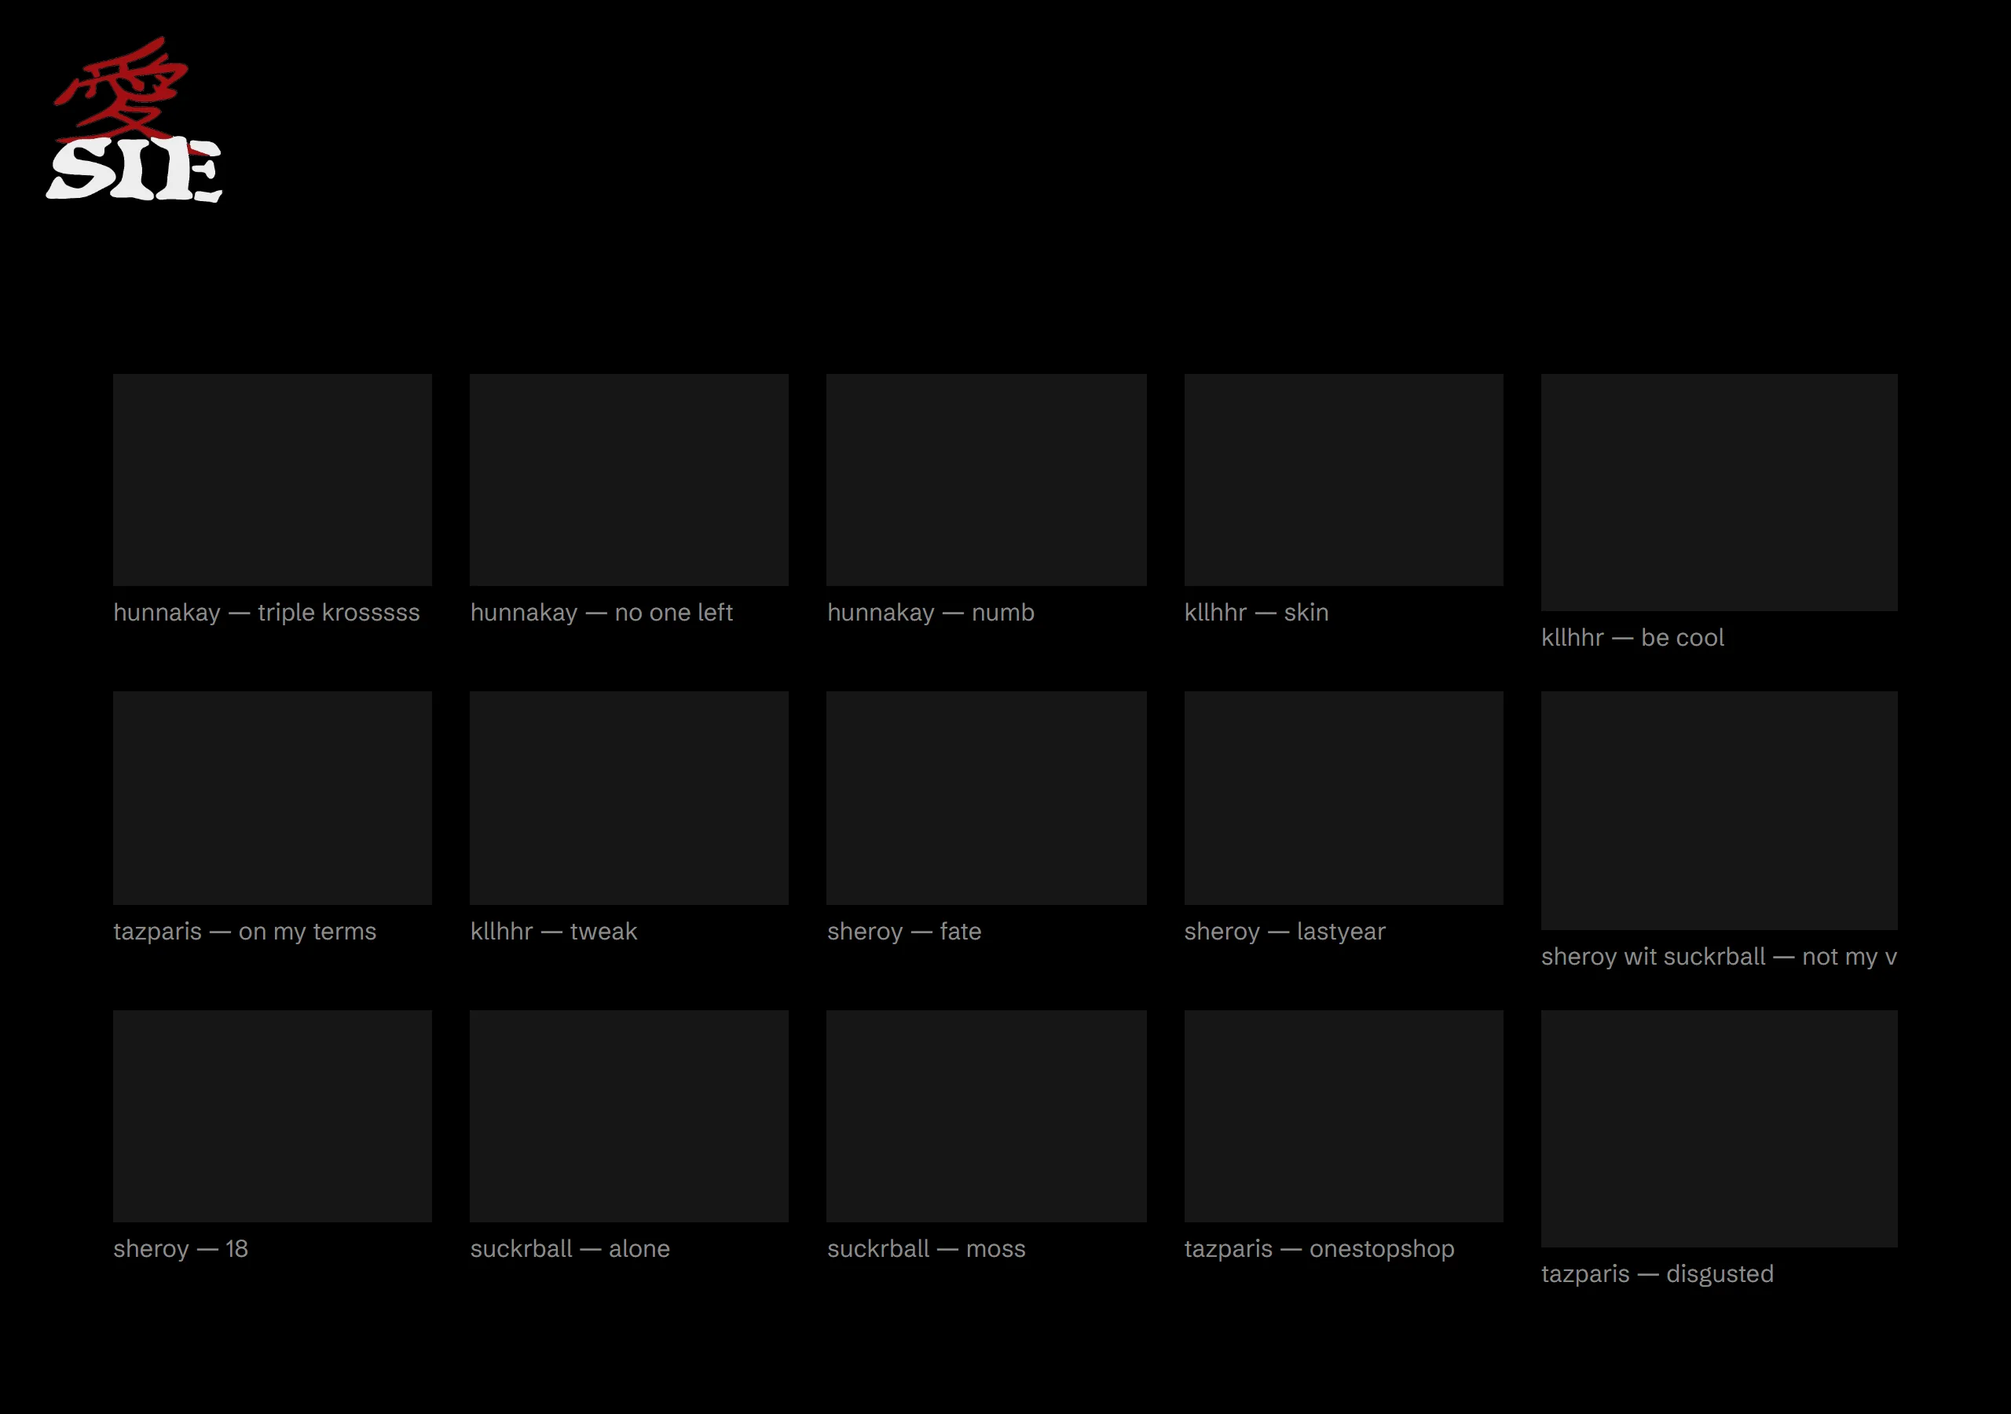
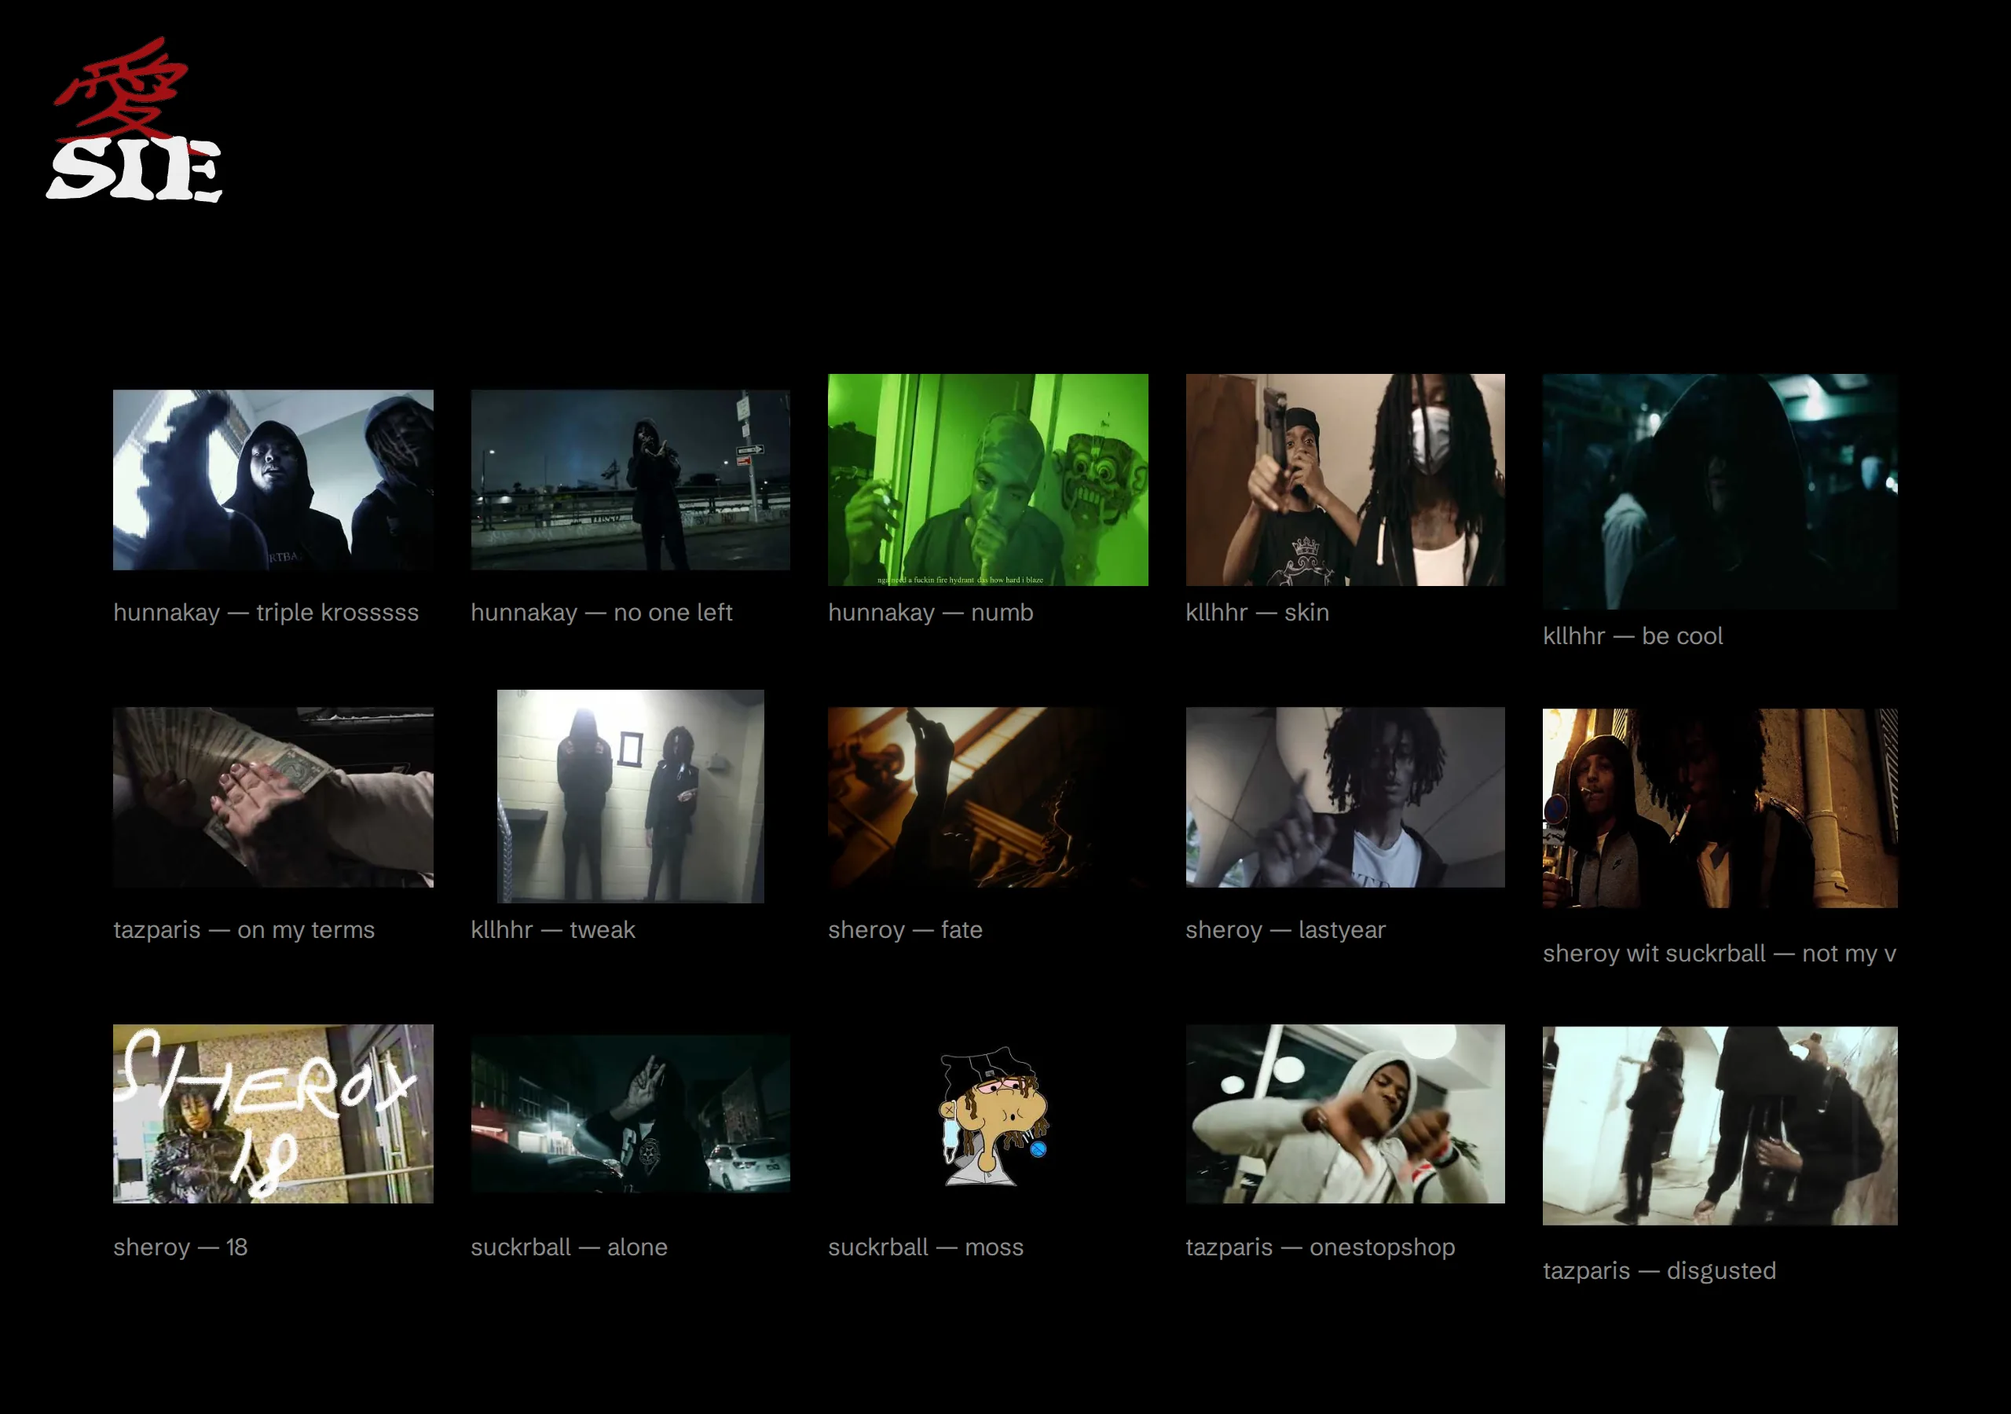
chore(feed): map the two new uploads; 17 videos
k3JJfNnI7ss (@hunnakay) shipped as a raw filename, 'lostmysanity148_unmixed_
prod_aghast_kickn_myrlu.wav' — mapped to hunnakay / lost my sanity. Confirm the
title if that reading is wrong.
Izu3k-agHEM (@suckrballll) cleaned correctly to 'i feel alone'.

diff --git a/site/index.html b/site/index.html
@@ -65,6 +65,12 @@
 
   <section class="sie">
     <div class="vids" id="vids">
+      <a class="vid" data-yt="k3JJfNnI7ss"
+         href="https://www.youtube.com/watch?v=k3JJfNnI7ss"
+         target="_blank" rel="noopener" aria-label="hunnakay — lost my sanity">
+        <span class="vid-thumb"><img src="https://i.ytimg.com/vi/k3JJfNnI7ss/hqdefault.jpg" alt="" loading="lazy" width="480" height="360"></span>
+        <span class="vid-label">hunnakay — lost my sanity</span>
+      </a>
       <a class="vid" data-yt="W6n73KxSkn0"
          href="https://www.youtube.com/watch?v=W6n73KxSkn0"
          target="_blank" rel="noopener" aria-label="hunnakay — triple krosssss">
@@ -131,6 +137,12 @@
         <span class="vid-thumb"><img src="https://i.ytimg.com/vi/E5zMqyOE61o/hqdefault.jpg" alt="" loading="lazy" width="480" height="360"></span>
         <span class="vid-label">sheroy — 18</span>
       </a>
+      <a class="vid" data-yt="Izu3k-agHEM"
+         href="https://www.youtube.com/watch?v=Izu3k-agHEM"
+         target="_blank" rel="noopener" aria-label="suckrball — i feel alone">
+        <span class="vid-thumb"><img src="https://i.ytimg.com/vi/Izu3k-agHEM/hqdefault.jpg" alt="" loading="lazy" width="480" height="360"></span>
+        <span class="vid-label">suckrball — i feel alone</span>
+      </a>
       <a class="vid" data-yt="QNqd8_XWc58"
          href="https://www.youtube.com/watch?v=QNqd8_XWc58"
          target="_blank" rel="noopener" aria-label="suckrball — alone">
@@ -160,7 +172,7 @@
 </main>
 
 <script src="vendor/myth-index/myth-index.js"></script>
-<script type="application/json" id="catalogue">[{"href":"/","title":"shop","thumb":"assets/cd-front.webp"},{"href":"/videos#W6n73KxSkn0","title":"hunnakay — triple krosssss","thumb":"assets/yt/W6n73KxSkn0.jpg"},{"href":"/videos#hY4yIF5t618","title":"hunnakay — no one left","thumb":"assets/yt/hY4yIF5t618.jpg"},{"href":"/videos#OIUexrJQ89A","title":"hunnakay — numb","thumb":"assets/yt/OIUexrJQ89A.jpg"},{"href":"/videos#cm8-lW25-e4","title":"kllhhr — skin","thumb":"assets/yt/cm8-lW25-e4.jpg"},{"href":"/videos#2L9ZwUIzAX8","title":"kllhhr — be cool","thumb":"assets/yt/2L9ZwUIzAX8.jpg"},{"href":"/videos#3KxkXT0U6PM","title":"tazparis — on my terms","thumb":"assets/yt/3KxkXT0U6PM.jpg"},{"href":"/videos#q0cq_Ny0Hkg","title":"kllhhr — tweak","thumb":"assets/yt/q0cq_Ny0Hkg.jpg"},{"href":"/videos#Vf-I12GW8Pk","title":"sheroy — fate","thumb":"assets/yt/Vf-I12GW8Pk.jpg"},{"href":"/videos#_swh-ZVvAro","title":"sheroy — lastyear","thumb":"assets/yt/_swh-ZVvAro.jpg"},{"href":"/videos#P1fFSZUrW3k","title":"sheroy wit suckrball — not my v","thumb":"assets/yt/P1fFSZUrW3k.jpg"},{"href":"/videos#E5zMqyOE61o","title":"sheroy — 18","thumb":"assets/yt/E5zMqyOE61o.jpg"},{"href":"/videos#QNqd8_XWc58","title":"suckrball — alone","thumb":"assets/yt/QNqd8_XWc58.jpg"},{"href":"/videos#wETb3ybNNKg","title":"suckrball — moss","thumb":"assets/yt/wETb3ybNNKg.jpg"},{"href":"/videos#gTsLN7wq9DY","title":"tazparis — onestopshop","thumb":"assets/yt/gTsLN7wq9DY.jpg"},{"href":"/videos#S_OO6kivZ8Y","title":"tazparis — disgusted","thumb":"assets/yt/S_OO6kivZ8Y.jpg"}]</script>
+<script type="application/json" id="catalogue">[{"href":"/","title":"shop","thumb":"assets/cd-front.webp"},{"href":"/videos#k3JJfNnI7ss","thumb":"assets/yt/k3JJfNnI7ss.jpg","title":"hunnakay — lost my sanity"},{"href":"/videos#W6n73KxSkn0","thumb":"assets/yt/W6n73KxSkn0.jpg","title":"hunnakay — triple krosssss"},{"href":"/videos#hY4yIF5t618","thumb":"assets/yt/hY4yIF5t618.jpg","title":"hunnakay — no one left"},{"href":"/videos#OIUexrJQ89A","thumb":"assets/yt/OIUexrJQ89A.jpg","title":"hunnakay — numb"},{"href":"/videos#cm8-lW25-e4","thumb":"assets/yt/cm8-lW25-e4.jpg","title":"kllhhr — skin"},{"href":"/videos#2L9ZwUIzAX8","thumb":"assets/yt/2L9ZwUIzAX8.jpg","title":"kllhhr — be cool"},{"href":"/videos#3KxkXT0U6PM","thumb":"assets/yt/3KxkXT0U6PM.jpg","title":"tazparis — on my terms"},{"href":"/videos#q0cq_Ny0Hkg","thumb":"assets/yt/q0cq_Ny0Hkg.jpg","title":"kllhhr — tweak"},{"href":"/videos#Vf-I12GW8Pk","thumb":"assets/yt/Vf-I12GW8Pk.jpg","title":"sheroy — fate"},{"href":"/videos#_swh-ZVvAro","thumb":"assets/yt/_swh-ZVvAro.jpg","title":"sheroy — lastyear"},{"href":"/videos#P1fFSZUrW3k","thumb":"assets/yt/P1fFSZUrW3k.jpg","title":"sheroy wit suckrball — not my v"},{"href":"/videos#E5zMqyOE61o","thumb":"assets/yt/E5zMqyOE61o.jpg","title":"sheroy — 18"},{"href":"/videos#Izu3k-agHEM","thumb":"assets/yt/Izu3k-agHEM.jpg","title":"suckrball — i feel alone"},{"href":"/videos#QNqd8_XWc58","thumb":"assets/yt/QNqd8_XWc58.jpg","title":"suckrball — alone"},{"href":"/videos#wETb3ybNNKg","thumb":"assets/yt/wETb3ybNNKg.jpg","title":"suckrball — moss"},{"href":"/videos#gTsLN7wq9DY","thumb":"assets/yt/gTsLN7wq9DY.jpg","title":"tazparis — onestopshop"},{"href":"/videos#S_OO6kivZ8Y","thumb":"assets/yt/S_OO6kivZ8Y.jpg","title":"tazparis — disgusted"}]</script>
 <script src="js/sie.v13.js"></script>
 </body>
 </html>

diff --git a/site/build/webflow-paste/2-site-footer.html b/site/build/webflow-paste/2-site-footer.html
@@ -1,10 +1,10 @@
 <!-- Site settings / Custom code / Footer code (before </body>) -->
 <div id="intro" aria-hidden="true">
-  <video muted playsinline preload="auto" width="720" height="870">
-    <source src="https://assets.sie.market/sie-intro.v4.mp4" type="video/mp4">
-  </video>
-  <img src="https://cdn.prod.website-files.com/6ab09c2043ba16c77bec74be/6ab3d8b049b603070109fb47_sie-logo.png" alt="" width="682" height="638" hidden>
+<video muted playsinline preload="auto" width="720" height="870">
+<source src="https://assets.sie.market/sie-intro.v4.mp4" type="video/mp4">
+</video>
+<img src="https://cdn.prod.website-files.com/6ab09c2043ba16c77bec74be/6ab3d8b049b603070109fb47_sie-logo.png" alt="" width="682" height="638" hidden>
 </div>
-<script type="application/json" id="catalogue">[{"href":"/","title":"shop","thumb":"assets/cd-front.webp"},{"href":"/videos#W6n73KxSkn0","title":"hunnakay — triple krosssss","thumb":"assets/yt/W6n73KxSkn0.jpg"},{"href":"/videos#hY4yIF5t618","title":"hunnakay — no one left","thumb":"assets/yt/hY4yIF5t618.jpg"},{"href":"/videos#OIUexrJQ89A","title":"hunnakay — numb","thumb":"assets/yt/OIUexrJQ89A.jpg"},{"href":"/videos#cm8-lW25-e4","title":"kllhhr — skin","thumb":"assets/yt/cm8-lW25-e4.jpg"},{"href":"/videos#2L9ZwUIzAX8","title":"kllhhr — be cool","thumb":"assets/yt/2L9ZwUIzAX8.jpg"},{"href":"/videos#3KxkXT0U6PM","title":"tazparis — on my terms","thumb":"assets/yt/3KxkXT0U6PM.jpg"},{"href":"/videos#q0cq_Ny0Hkg","title":"kllhhr — tweak","thumb":"assets/yt/q0cq_Ny0Hkg.jpg"},{"href":"/videos#Vf-I12GW8Pk","title":"sheroy — fate","thumb":"assets/yt/Vf-I12GW8Pk.jpg"},{"href":"/videos#_swh-ZVvAro","title":"sheroy — lastyear","thumb":"assets/yt/_swh-ZVvAro.jpg"},{"href":"/videos#P1fFSZUrW3k","title":"sheroy wit suckrball — not my v","thumb":"assets/yt/P1fFSZUrW3k.jpg"},{"href":"/videos#E5zMqyOE61o","title":"sheroy — 18","thumb":"assets/yt/E5zMqyOE61o.jpg"},{"href":"/videos#QNqd8_XWc58","title":"suckrball — alone","thumb":"assets/yt/QNqd8_XWc58.jpg"},{"href":"/videos#wETb3ybNNKg","title":"suckrball — moss","thumb":"assets/yt/wETb3ybNNKg.jpg"},{"href":"/videos#gTsLN7wq9DY","title":"tazparis — onestopshop","thumb":"assets/yt/gTsLN7wq9DY.jpg"},{"href":"/videos#S_OO6kivZ8Y","title":"tazparis — disgusted","thumb":"assets/yt/S_OO6kivZ8Y.jpg"}]</script>
+<script type="application/json" id="catalogue">[{"href":"/","title":"shop","thumb":"assets/cd-front.webp"},{"href":"/videos#k3JJfNnI7ss","thumb":"assets/yt/k3JJfNnI7ss.jpg","title":"hunnakay — lost my sanity"},{"href":"/videos#W6n73KxSkn0","thumb":"assets/yt/W6n73KxSkn0.jpg","title":"hunnakay — triple krosssss"},{"href":"/videos#hY4yIF5t618","thumb":"assets/yt/hY4yIF5t618.jpg","title":"hunnakay — no one left"},{"href":"/videos#OIUexrJQ89A","thumb":"assets/yt/OIUexrJQ89A.jpg","title":"hunnakay — numb"},{"href":"/videos#cm8-lW25-e4","thumb":"assets/yt/cm8-lW25-e4.jpg","title":"kllhhr — skin"},{"href":"/videos#2L9ZwUIzAX8","thumb":"assets/yt/2L9ZwUIzAX8.jpg","title":"kllhhr — be cool"},{"href":"/videos#3KxkXT0U6PM","thumb":"assets/yt/3KxkXT0U6PM.jpg","title":"tazparis — on my terms"},{"href":"/videos#q0cq_Ny0Hkg","thumb":"assets/yt/q0cq_Ny0Hkg.jpg","title":"kllhhr — tweak"},{"href":"/videos#Vf-I12GW8Pk","thumb":"assets/yt/Vf-I12GW8Pk.jpg","title":"sheroy — fate"},{"href":"/videos#_swh-ZVvAro","thumb":"assets/yt/_swh-ZVvAro.jpg","title":"sheroy — lastyear"},{"href":"/videos#P1fFSZUrW3k","thumb":"assets/yt/P1fFSZUrW3k.jpg","title":"sheroy wit suckrball — not my v"},{"href":"/videos#E5zMqyOE61o","thumb":"assets/yt/E5zMqyOE61o.jpg","title":"sheroy — 18"},{"href":"/videos#Izu3k-agHEM","thumb":"assets/yt/Izu3k-agHEM.jpg","title":"suckrball — i feel alone"},{"href":"/videos#QNqd8_XWc58","thumb":"assets/yt/QNqd8_XWc58.jpg","title":"suckrball — alone"},{"href":"/videos#wETb3ybNNKg","thumb":"assets/yt/wETb3ybNNKg.jpg","title":"suckrball — moss"},{"href":"/videos#gTsLN7wq9DY","thumb":"assets/yt/gTsLN7wq9DY.jpg","title":"tazparis — onestopshop"},{"href":"/videos#S_OO6kivZ8Y","thumb":"assets/yt/S_OO6kivZ8Y.jpg","title":"tazparis — disgusted"}]</script>
 <script src="https://assets.sie.market/myth-index.v1.js"></script>
-<script src="https://assets.sie.market/sie.v12.js"></script>
+<script src="https://assets.sie.market/sie.v13.js"></script>

diff --git a/site/build/sie.html b/site/build/sie.html
@@ -7,6 +7,12 @@
 
   <section class="sie">
     <div class="vids" id="vids">
+      <a class="vid" data-yt="k3JJfNnI7ss"
+         href="https://www.youtube.com/watch?v=k3JJfNnI7ss"
+         target="_blank" rel="noopener" aria-label="hunnakay — lost my sanity">
+        <span class="vid-thumb"><img src="https://i.ytimg.com/vi/k3JJfNnI7ss/hqdefault.jpg" alt="" loading="lazy" width="480" height="360"></span>
+        <span class="vid-label">hunnakay — lost my sanity</span>
+      </a>
       <a class="vid" data-yt="W6n73KxSkn0"
          href="https://www.youtube.com/watch?v=W6n73KxSkn0"
          target="_blank" rel="noopener" aria-label="hunnakay — triple krosssss">
@@ -72,6 +78,12 @@
          target="_blank" rel="noopener" aria-label="sheroy — 18">
         <span class="vid-thumb"><img src="https://i.ytimg.com/vi/E5zMqyOE61o/hqdefault.jpg" alt="" loading="lazy" width="480" height="360"></span>
         <span class="vid-label">sheroy — 18</span>
+      </a>
+      <a class="vid" data-yt="Izu3k-agHEM"
+         href="https://www.youtube.com/watch?v=Izu3k-agHEM"
+         target="_blank" rel="noopener" aria-label="suckrball — i feel alone">
+        <span class="vid-thumb"><img src="https://i.ytimg.com/vi/Izu3k-agHEM/hqdefault.jpg" alt="" loading="lazy" width="480" height="360"></span>
+        <span class="vid-label">suckrball — i feel alone</span>
       </a>
       <a class="vid" data-yt="QNqd8_XWc58"
          href="https://www.youtube.com/watch?v=QNqd8_XWc58"

diff --git a/site/build/sie-grid.html b/site/build/sie-grid.html
@@ -8,6 +8,12 @@
     </nav>
 
     <div class="vids" id="vids">
+      <a class="vid" data-yt="k3JJfNnI7ss"
+         href="https://www.youtube.com/watch?v=k3JJfNnI7ss"
+         target="_blank" rel="noopener" aria-label="hunnakay — lost my sanity">
+        <span class="vid-thumb"><img src="https://i.ytimg.com/vi/k3JJfNnI7ss/hqdefault.jpg" alt="" loading="lazy" width="480" height="360"></span>
+        <span class="vid-label">hunnakay — lost my sanity</span>
+      </a>
       <a class="vid" data-yt="W6n73KxSkn0"
          href="https://www.youtube.com/watch?v=W6n73KxSkn0"
          target="_blank" rel="noopener" aria-label="hunnakay — triple krosssss">
@@ -73,6 +79,12 @@
          target="_blank" rel="noopener" aria-label="sheroy — 18">
         <span class="vid-thumb"><img src="https://i.ytimg.com/vi/E5zMqyOE61o/hqdefault.jpg" alt="" loading="lazy" width="480" height="360"></span>
         <span class="vid-label">sheroy — 18</span>
+      </a>
+      <a class="vid" data-yt="Izu3k-agHEM"
+         href="https://www.youtube.com/watch?v=Izu3k-agHEM"
+         target="_blank" rel="noopener" aria-label="suckrball — i feel alone">
+        <span class="vid-thumb"><img src="https://i.ytimg.com/vi/Izu3k-agHEM/hqdefault.jpg" alt="" loading="lazy" width="480" height="360"></span>
+        <span class="vid-label">suckrball — i feel alone</span>
       </a>
       <a class="vid" data-yt="QNqd8_XWc58"
          href="https://www.youtube.com/watch?v=QNqd8_XWc58"

diff --git a/site/build/webflow-paste/4-page-videos.html b/site/build/webflow-paste/4-page-videos.html
@@ -6,6 +6,12 @@
 </header>
 <section class="sie">
 <div class="vids" id="vids">
+<a class="vid" data-yt="k3JJfNnI7ss"
+href="https://www.youtube.com/watch?v=k3JJfNnI7ss"
+target="_blank" rel="noopener" aria-label="hunnakay — lost my sanity">
+<span class="vid-thumb"><img src="https://i.ytimg.com/vi/k3JJfNnI7ss/hqdefault.jpg" alt="" loading="lazy" width="480" height="360"></span>
+<span class="vid-label">hunnakay — lost my sanity</span>
+</a>
 <a class="vid" data-yt="W6n73KxSkn0"
 href="https://www.youtube.com/watch?v=W6n73KxSkn0"
 target="_blank" rel="noopener" aria-label="hunnakay — triple krosssss">
@@ -71,6 +77,12 @@ href="https://www.youtube.com/watch?v=E5zMqyOE61o"
 target="_blank" rel="noopener" aria-label="sheroy — 18">
 <span class="vid-thumb"><img src="https://i.ytimg.com/vi/E5zMqyOE61o/hqdefault.jpg" alt="" loading="lazy" width="480" height="360"></span>
 <span class="vid-label">sheroy — 18</span>
+</a>
+<a class="vid" data-yt="Izu3k-agHEM"
+href="https://www.youtube.com/watch?v=Izu3k-agHEM"
+target="_blank" rel="noopener" aria-label="suckrball — i feel alone">
+<span class="vid-thumb"><img src="https://i.ytimg.com/vi/Izu3k-agHEM/hqdefault.jpg" alt="" loading="lazy" width="480" height="360"></span>
+<span class="vid-label">suckrball — i feel alone</span>
 </a>
 <a class="vid" data-yt="QNqd8_XWc58"
 href="https://www.youtube.com/watch?v=QNqd8_XWc58"

diff --git a/site/build/webflow-paste/3-page-home.html b/site/build/webflow-paste/3-page-home.html
@@ -1,7 +1,7 @@
 <!-- page "/" / Page settings / Custom code / Before </body> -->
 <main class="page" data-route="/">
 <header>
-<a href="/" aria-label="sie — home" class="markbox"><img class="mark" src="https://cdn.prod.website-files.com/6ab09c2043ba16c77bec74be/6ab3d8b049b603070109fb47_sie-logo.png" alt="sie" width="682" height="638"></a>
+<a href="/videos" aria-label="sie — videos" class="markbox"><img class="mark" src="https://cdn.prod.website-files.com/6ab09c2043ba16c77bec74be/6ab3d8b049b603070109fb47_sie-logo.png" alt="sie" width="682" height="638"></a>
 <div id="corner-mount"></div>
 </header>
 <section class="stage" aria-label="the cd">
@@ -17,6 +17,8 @@
 <img src="https://cdn.prod.website-files.com/6ab09c2043ba16c77bec74be/6ab3d8af5b64ffd16806145a_cd-poster.webp" alt="the folded poster, opened"></div>
 <div class="slide" data-copy="om cover, 1 of 3 included.">
 <img src="https://cdn.prod.website-files.com/6ab09c2043ba16c77bec74be/6ab3d8aff6323daaf60b18c3_cd-front.webp" alt="alternative cover, om"></div>
+<div class="slide wide" data-copy="everything in the box — the cd, the case, the folded poster, three covers.">
+<img src="assets/cd-bundle.webp" alt="everything in the box"></div>
 </div>
 <div class="dots" id="dots" role="tablist" aria-label="views"></div>
 </section>

diff --git a/site/build/home.html b/site/build/home.html
@@ -1,7 +1,7 @@
 <main class="page" data-route="/">
 
   <header>
-    <a href="/" aria-label="sie — home" class="markbox"><img class="mark" src="https://cdn.prod.website-files.com/6ab09c2043ba16c77bec74be/6ab3d8b049b603070109fb47_sie-logo.png" alt="sie" width="682" height="638"></a>
+    <a href="/videos" aria-label="sie — videos" class="markbox"><img class="mark" src="https://cdn.prod.website-files.com/6ab09c2043ba16c77bec74be/6ab3d8b049b603070109fb47_sie-logo.png" alt="sie" width="682" height="638"></a>
     <div id="corner-mount"></div>
   </header>
 
@@ -18,6 +18,8 @@
         <img src="https://cdn.prod.website-files.com/6ab09c2043ba16c77bec74be/6ab3d8af5b64ffd16806145a_cd-poster.webp" alt="the folded poster, opened"></div>
       <div class="slide" data-copy="om cover, 1 of 3 included.">
         <img src="https://cdn.prod.website-files.com/6ab09c2043ba16c77bec74be/6ab3d8aff6323daaf60b18c3_cd-front.webp" alt="alternative cover, om"></div>
+      <div class="slide wide" data-copy="everything in the box — the cd, the case, the folded poster, three covers.">
+        <img src="assets/cd-bundle.webp" alt="everything in the box"></div>
     </div>
     <div class="dots" id="dots" role="tablist" aria-label="views"></div>
   </section>

diff --git a/site/build/webflow-paste/1-site-head.html b/site/build/webflow-paste/1-site-head.html
@@ -1,4 +1,4 @@
 <!-- Site settings / Custom code / Head code -->
 <link rel="stylesheet" href="https://assets.sie.market/fonts.v1.css">
 <link rel="stylesheet" href="https://assets.sie.market/myth-index.v1.css">
-<link rel="stylesheet" href="https://assets.sie.market/sie.v12.css">
+<link rel="stylesheet" href="https://assets.sie.market/sie.v13.css">
